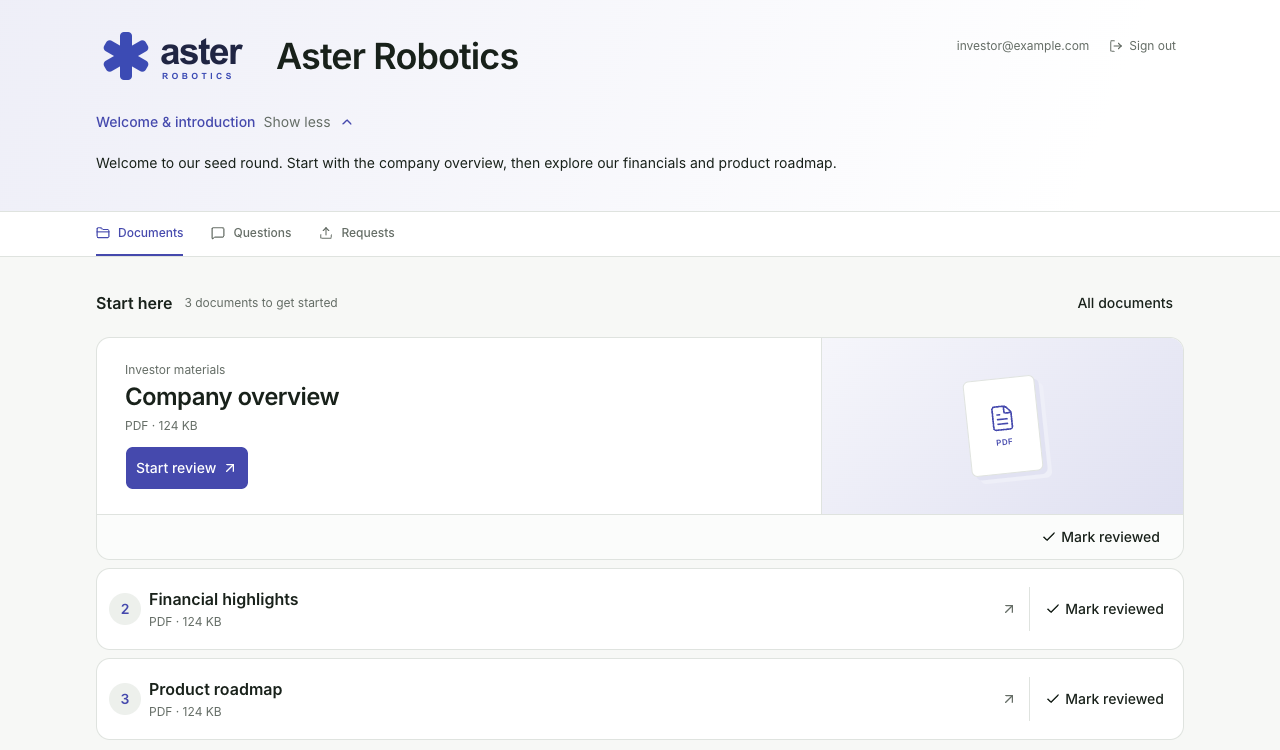
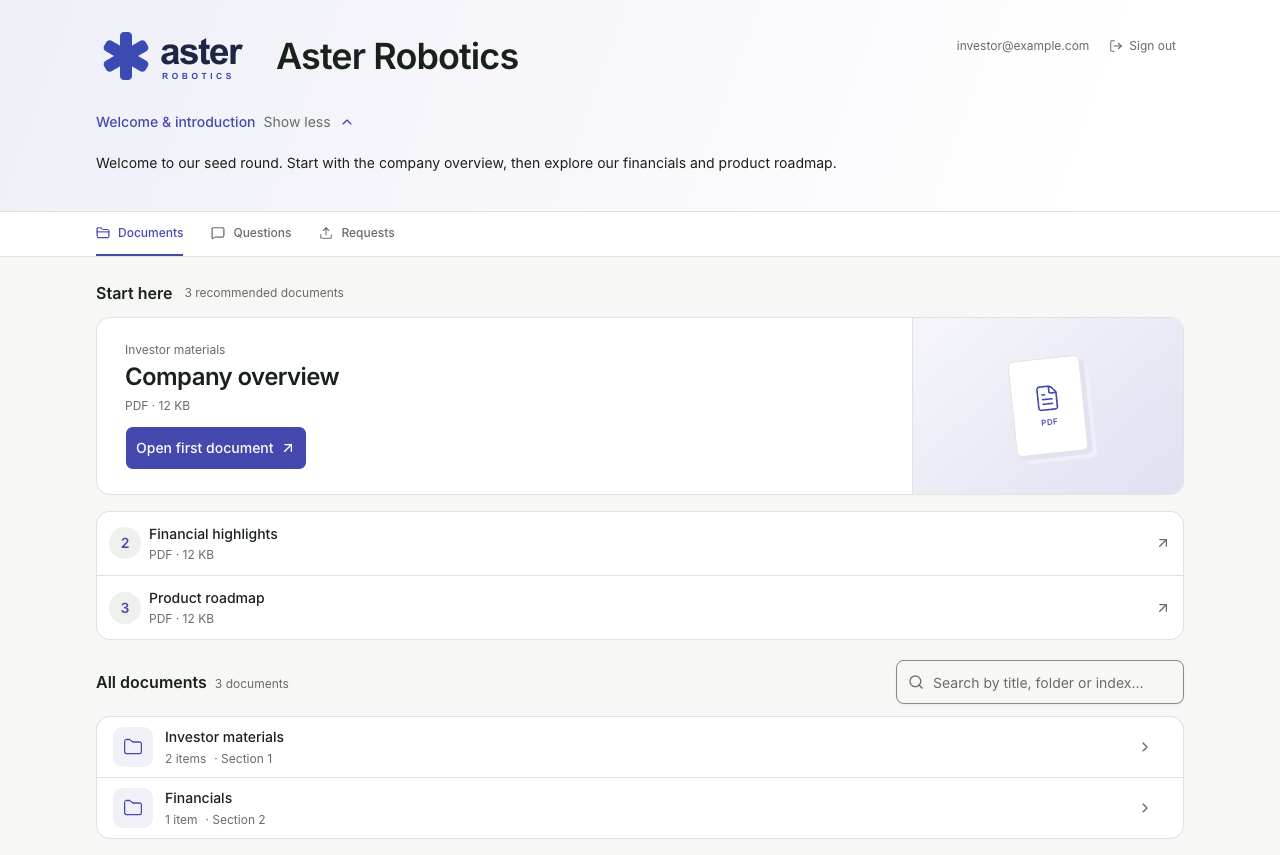
Show the updated investor reading list in the README

diff --git a/README.md b/README.md
@@ -4,7 +4,7 @@ A self-hosted data room for fundraising and due diligence. Give each investor a 
 
 **[Run locally](#run-locally) · [Deploy on a VPS](#deploy-on-your-server) · [Read the product guide](docs/using-openroom.md) · [Use the API, MCP or CLI](#api-mcp-and-cli)**
 
-![An example investor room for Aster Robotics, with a company introduction and pinned documents in review order](docs/images/investor-room-overview.png)
+![Investor view of Aster Robotics showing the first recommended document, the reading list and the searchable library](docs/images/investor-room-overview.png)
 
 ## Share your first room
 
